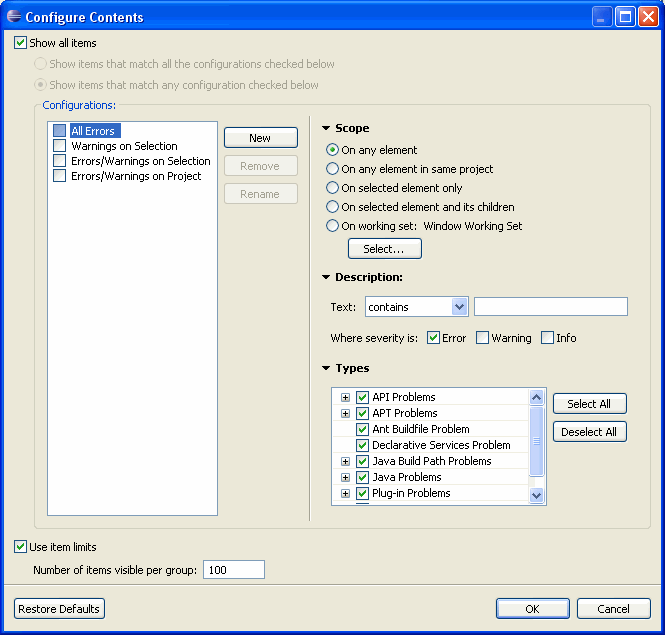
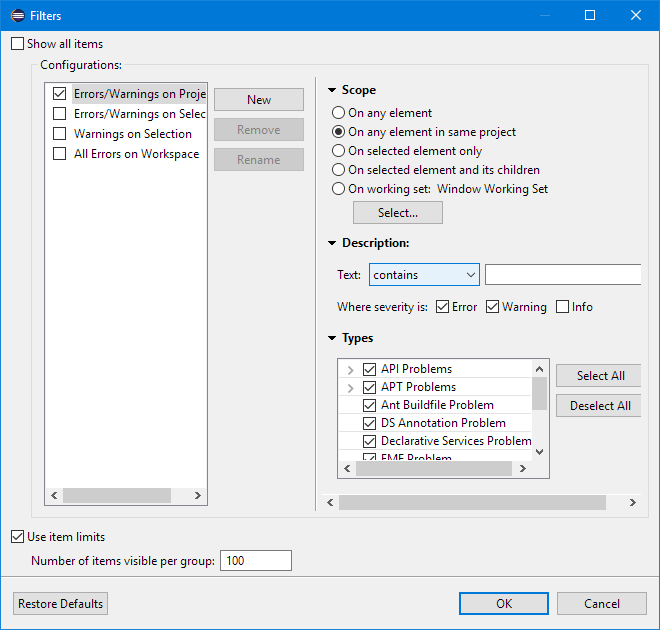
Bug 500517 - [problems view] rename Configure Contents... to Filter...
Renamed Configure Contents... to Filter... to use the same term as
Package Explorer

Changed region(s): [[0.0, 0.0, 1.0, 1.0]]

diff --git a/bundles/org.eclipse.platform.doc.isv/guide/wrkAdv_marker_support.htm b/bundles/org.eclipse.platform.doc.isv/guide/wrkAdv_marker_support.htm
@@ -54,7 +54,7 @@ selected filters will be displayed). New configurations can be added
 using the <tt>markerFieldConfiguration</tt> element or manually by the
 user. Below is the configuration section of the Problems view showing
 user configurations and configurations added via the extension point).</p>
-<p><img src="images/prbfil.png" alt="Picture of Problems view's 'Configure Contents' dialog"></p>
+<p><img src="images/prbfil.png" alt="Picture of Problems view's 'Filters' dialog"></p>
 <p><strong>Groups</strong></p>
 <p>Markers can be grouped in two ways. The first way is to group
 marker types into groups using the <code>markerTypeCategory</code>
@@ -63,7 +63,7 @@ Below is an example that shows grouping by 'Java Problem Type':</p>
 <p><img src="images/prob.png" alt="Picture of Problems view showing grouping by type"></p>
 <p>When marker types are grouped together they will be shown in
 those groups in the configurations dialog.</p>
-<p><img src="images/problems_view_markerTypeCat.png" alt="Picture of Problems view's 'Configure Contents' dialog"></p>
+<p><img src="images/problems_view_markerTypeCat.png" alt="Picture of Problems view's 'Filters' dialog"></p>
 <p>You can also create your own grouping using the <code>markerGrouping</code>
 element, which will show up as an extra entry in the <b>Group By</b>
 menu of the markers view it is defined in. Top level markerGroupings are

diff --git a/bundles/org.eclipse.platform.doc.user/concepts/cprbview.htm b/bundles/org.eclipse.platform.doc.user/concepts/cprbview.htm
@@ -28,7 +28,7 @@
 </p>
 <p CLASS="Head">You can configure the contents of the Problems view to view only warnings 
   and errors associated with a particular resource or group of resources. This is done
-  using the <b>Configure Contents</b> dialog available from the drop down menu. You can
+  using the <b>Filters</b> dialog available from the drop down menu. You can
   add multiple filters to the Problems view and enable or disable 
   them as required. Filters can either be additive (any problem that satisfies at least 
   one of the enables filters will be shown) or exclusive (only problems that satisfy all

diff --git a/bundles/org.eclipse.platform.doc.user/concepts/cworkset.htm b/bundles/org.eclipse.platform.doc.user/concepts/cworkset.htm
@@ -20,7 +20,7 @@ of elements. </P>
   the set of resources that are displayed. If a working set is selected in the 
   navigator, only resources, children of resources, and parents of resources contained 
   in the working set are shown. The problems view, tasks view and bookmarks view 
-  can all be filtered based on a working set via the <b>Configure Contents</b> view menu item. 
+  can all be filtered based on a working set via the <b>Filters</b> view menu item. 
   When using the search facility, 
   you can also use working sets to restrict the set of elements that are searched. 
 </P>

diff --git a/bundles/org.eclipse.platform.doc.user/tasks/tasks-79.htm b/bundles/org.eclipse.platform.doc.user/tasks/tasks-79.htm
@@ -20,7 +20,7 @@
   associated with, by text string within the Description field, by problem severity, 
   by task priority, or by task status. </P>
 <ol>
-  <li>In the view menu of the Tasks or Problems view, select <b>Configure Contents...</b>.</li>
+  <li>In the view menu of the Tasks or Problems view, select <b>Filters...</b>.</li>
   <li>Select the radio buttons and checkboxes that correspond to
       your filtering objectives.</li>
   <li>Click <b>OK</b>.</li>
